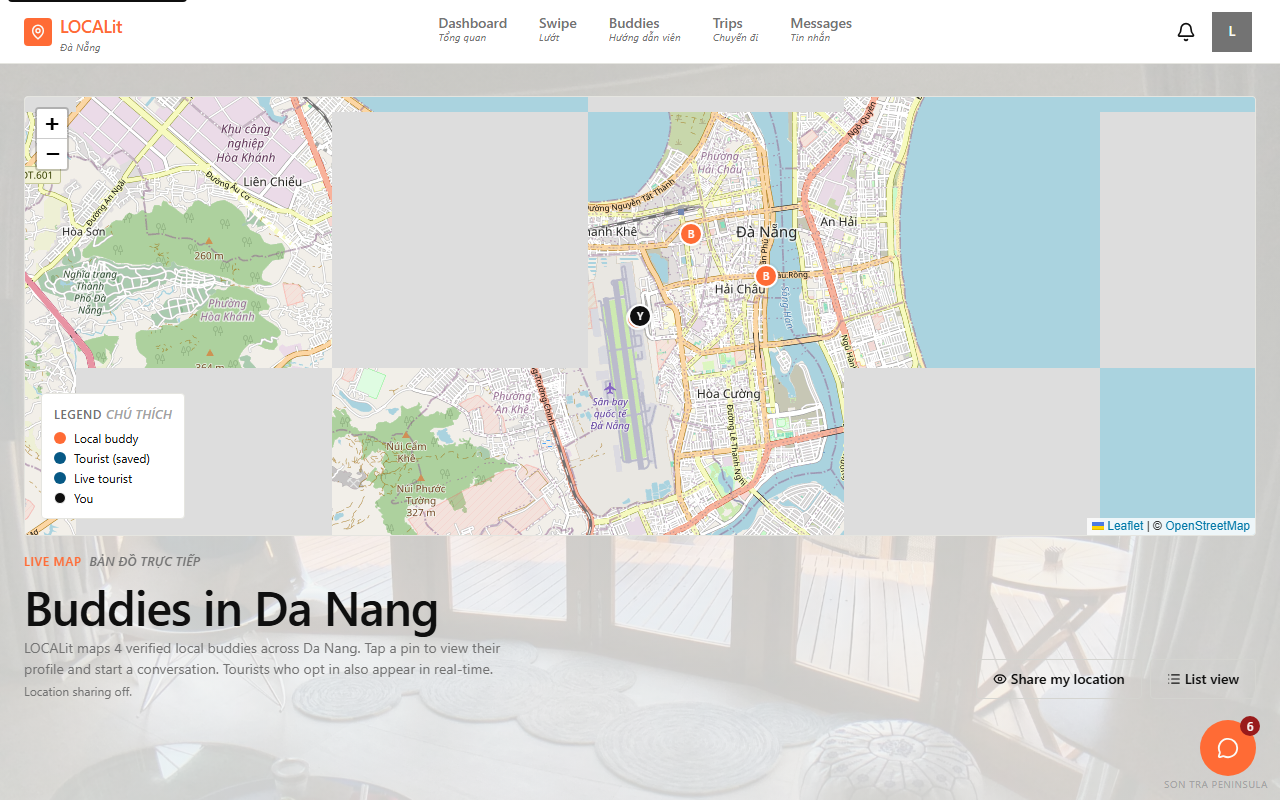
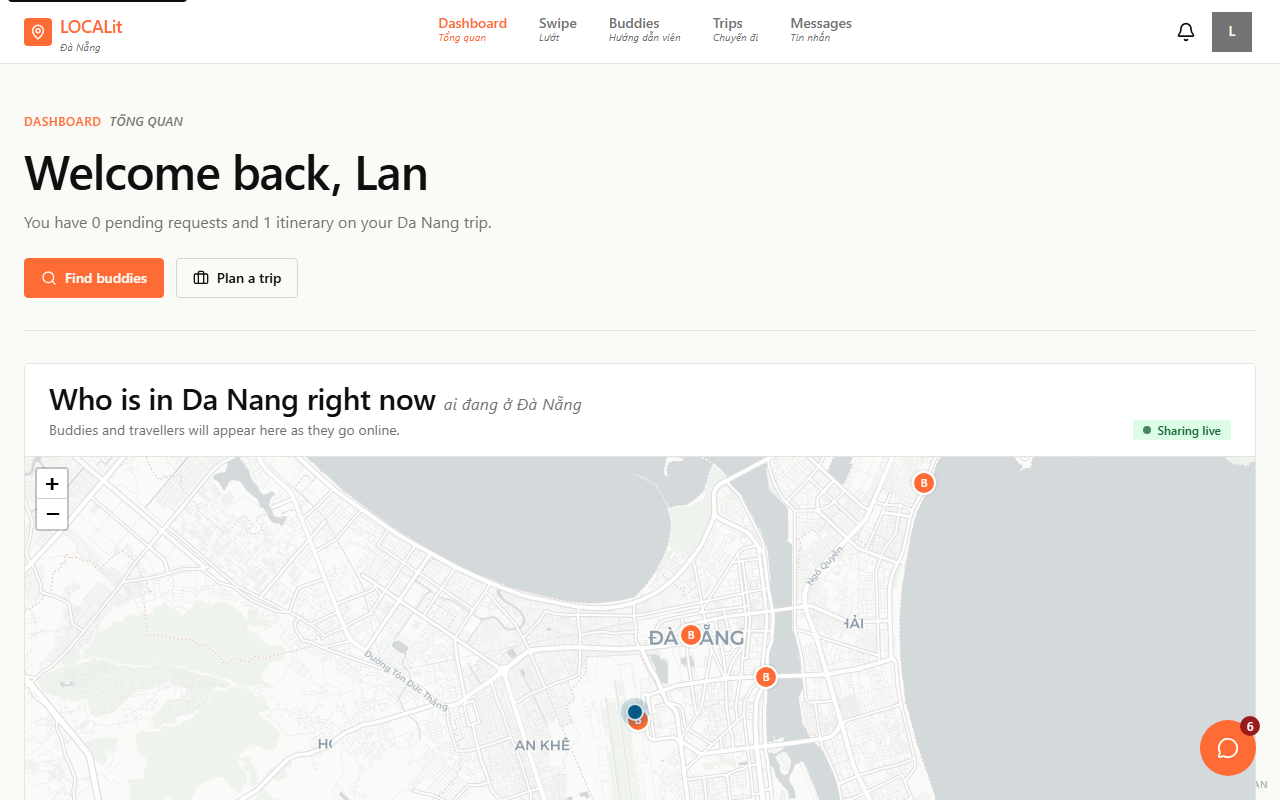
fix: dedupe self pin on map when share-location is on
When a user toggled 'Share my location' on /map, /dashboard, or
/browse, the map rendered TWO markers for the broadcaster's
position: the pulsing live self marker (driven by selfLiveOverride)
PLUS a regular live marker echoed back from the postgres_changes
subscription on location_updates.

Root cause: useLiveUserLocations subscribes to its own publishes
because the channel is created before getCurrentUser() resolves, so
userIdRef.current is still null when the first self-echo event
arrives. The initial-fetch path already filters by userIdRef, but
the realtime path raced it.

Fix:
- Add selfUserId prop to MapView + useLiveUserLocations.
- The page wires the auth session id through to both.
- MapView filters liveLocations at render time: never render a
  live marker for selfUserId.
- useLiveUserLocations also seeds userIdRef from the prop so the
  postgres_changes handler can skip self-echoes reliably.

diff --git a/components/map/MapView.tsx b/components/map/MapView.tsx
@@ -33,6 +33,13 @@ interface Props {
   /** Hide the static "You are here" marker even when granted — useful when
    *  we want to use the broadcaster's own marker instead. */
   selfLiveOverride?: boolean
+  /** Current signed-in user id. When provided, the map will NEVER render
+   *  a live marker for this user — the self marker (or pulsing live self
+   *  marker) already represents their position. Fixes the duplicate-pin
+   *  bug where the publisher's own row was echoed back via the
+   *  `location_updates` postgres_changes subscription before
+   *  `getCurrentUser()` resolved. */
+  selfUserId?: string | null
 }
 
 const DEFAULT_LOCATION = { lat: 16.0544, lng: 108.2023 } // Da Nang
@@ -84,7 +91,7 @@ function livePulseIcon(): L.DivIcon {
   return icon
 }
 
-export default function MapView({ userLocation, height = '100%', showSelfMarker = true, hasGpsFix = false, onSelectBuddy, liveLocations = [], selfLiveOverride = false }: Props) {
+export default function MapView({ userLocation, height = '100%', showSelfMarker = true, hasGpsFix = false, onSelectBuddy, liveLocations = [], selfLiveOverride = false, selfUserId = null }: Props) {
   const [buddies, setBuddies] = useState<BuddyPin[]>([])
   const [tourists, setTourists] = useState<BuddyPin[]>([])
   const [loading, setLoading] = useState(true)
@@ -402,14 +409,23 @@ export default function MapView({ userLocation, height = '100%', showSelfMarker 
           </Marker>
         ))}
 
-        {liveLocations.map((l) => (
-          <Marker key={`live-${l.userId}`} position={[l.lat, l.lng]} icon={livePulseIcon()} zIndexOffset={2000}>
-            <Popup>
-              <strong>{l.name}</strong>
-              <div style={{ fontSize: 12, color: '#737373' }}>Sharing live</div>
-            </Popup>
-          </Marker>
-        ))}
+        {liveLocations.map((l) => {
+          // Skip the broadcaster's own row — already represented by the
+          // self marker (or pulsing live self marker). The duplicate
+          // happens when the publish() call writes a row before
+          // userIdRef is populated, so the postgres_changes handler
+          // can't filter on the ref yet. Filtering at render time
+          // is the reliable backstop.
+          if (selfUserId && l.userId === selfUserId) return null
+          return (
+            <Marker key={`live-${l.userId}`} position={[l.lat, l.lng]} icon={livePulseIcon()} zIndexOffset={2000}>
+              <Popup>
+                <strong>{l.name}</strong>
+                <div style={{ fontSize: 12, color: '#737373' }}>Sharing live</div>
+              </Popup>
+            </Marker>
+          )
+        })}
       </MapContainer>
 
       {loading ? (

diff --git a/hooks/useLiveUserLocations.ts b/hooks/useLiveUserLocations.ts
@@ -24,6 +24,12 @@ interface Options {
   publishIntervalMs?: number
   /** How long a remote marker stays on the map without an update (ms). Default 60000. */
   staleAfterMs?: number
+  /** Authenticated user id of the local user. When provided, the hook
+   *  filters the publisher's own row out of the postgres_changes stream
+   *  (in addition to the render-time filter in <MapView />), so the
+   *  map never shows two pins for the broadcaster. If omitted, the
+   *  hook falls back to its internal getCurrentUser() race. */
+  selfUserId?: string | null
 }
 
 const STALE_AFTER_MS_DEFAULT = 60_000
@@ -48,7 +54,7 @@ const STALE_AFTER_MS_DEFAULT = 60_000
  *    row per user where the sharer has opted in via this hook.
  */
 export function useLiveUserLocations(opts: Options = {}) {
-  const { enabled = false, publishIntervalMs = 5_000, staleAfterMs = STALE_AFTER_MS_DEFAULT } = opts
+  const { enabled = false, publishIntervalMs = 5_000, staleAfterMs = STALE_AFTER_MS_DEFAULT, selfUserId = null } = opts
 
   const [liveLocations, setLiveLocations] = useState<LiveLocation[]>([])
   const [selfGranted, setSelfGranted] = useState(false)
@@ -72,6 +78,13 @@ export function useLiveUserLocations(opts: Options = {}) {
         (user?.user_metadata?.full_name as string | undefined) ??
         (user?.email ? String(user.email).split('@')[0] : 'You')
     })
+
+    // Also seed from the prop if the caller already knows the user id.
+    // This is the reliable path — it covers the race where the
+    // postgres_changes event fires before getCurrentUser() resolves
+    // and the broadcaster's own row would otherwise be rendered
+    // as a second pin. See MapView selfUserId prop.
+    if (selfUserId) userIdRef.current = selfUserId
 
     // Initial fetch of recent live locations so we don't wait 5s for the
     // first realtime event.
@@ -162,7 +175,7 @@ export function useLiveUserLocations(opts: Options = {}) {
         }
       }
     }
-  }, [staleAfterMs])
+  }, [staleAfterMs, selfUserId])
 
   // Toggle publish/subscribe on the local user based on `enabled`
   useEffect(() => {

diff --git a/app/browse/page.tsx b/app/browse/page.tsx
@@ -84,6 +84,10 @@ function BrowseContent() {
   const [loadError, setLoadError] = useState<string | null>(null)
   // Distance slider — 50 means "Any distance" (no upper bound applied).
   const [maxDistanceKm, setMaxDistanceKm] = useState<number>(50)
+  // Current user id — used by MapView/useLiveUserLocations to filter out
+  // the publisher's own row from the location_updates postgres_changes
+  // stream (otherwise the map shows two pins for the same position).
+  const [currentUserId, setCurrentUserId] = useState<string | null>(null)
 
   // Hydrate saved buddies from localStorage on mount
   useEffect(() => {
@@ -107,7 +111,19 @@ function BrowseContent() {
 
   const { liveLocations, selfGranted, selfDenied } = useLiveUserLocations({
     enabled: shareLocation,
+    selfUserId: currentUserId,
   })
+
+  useEffect(() => {
+    const supabase = createClient()
+    supabase.auth.getUser().then(({ data }) => {
+      setCurrentUserId(data.user?.id ?? null)
+    })
+    const { data: sub } = supabase.auth.onAuthStateChange((_event, session) => {
+      setCurrentUserId(session?.user?.id ?? null)
+    })
+    return () => sub.subscription.unsubscribe()
+  }, [])
 
   useEffect(() => {
     if (typeof navigator === 'undefined' || !navigator.geolocation) return
@@ -518,6 +534,7 @@ function BrowseContent() {
             onSelectBuddy={(id) => { setSelectedMapId(id); setExpandedBuddyId(id) }}
             liveLocations={liveLocations}
             selfLiveOverride={selfGranted || shareLocation}
+            selfUserId={currentUserId}
           />
           {selectedBuddy ? (
             <div className="absolute bottom-3 left-3 right-3 md:left-auto md:right-3 md:w-80 bg-surface border border-border rounded-sm p-4 z-aside">

diff --git a/app/map/page.tsx b/app/map/page.tsx
@@ -41,6 +41,7 @@ export default function MapPage() {
   // out on geolocation were incorrectly flagged as "not signed in" even when
   // their auth cookie was valid.
   const [signedIn, setSignedIn] = useState(false)
+  const [currentUserId, setCurrentUserId] = useState<string | null>(null)
 
   // RAM OPTIMIZATION (2026-10-08): useLocationWatcher re-runs its
   // useEffect when onGranted / onDenied change. If those props are
@@ -63,6 +64,7 @@ export default function MapPage() {
 
   const { liveLocations, selfGranted, selfDenied } = useLiveUserLocations({
     enabled: shareLocation && signedIn,
+    selfUserId: currentUserId,
   })
 
   // Check auth session once on mount + listen for changes.
@@ -70,9 +72,11 @@ export default function MapPage() {
     const supabase = createClient()
     supabase.auth.getUser().then(({ data }) => {
       setSignedIn(!!data.user)
+      setCurrentUserId(data.user?.id ?? null)
     })
     const { data: sub } = supabase.auth.onAuthStateChange((_event, session) => {
       setSignedIn(!!session?.user)
+      setCurrentUserId(session?.user?.id ?? null)
     })
     return () => sub.subscription.unsubscribe()
   }, [])
@@ -146,6 +150,7 @@ export default function MapPage() {
           onSelectBuddy={(id) => setSelectedId(id)}
           liveLocations={liveLocations}
           selfLiveOverride={selfGranted}
+          selfUserId={currentUserId}
         />
 
         {/* Legend — sits on top of every Leaflet pane (markers z=600,

diff --git a/app/dashboard/page.tsx b/app/dashboard/page.tsx
@@ -29,6 +29,7 @@ export default function DashboardPage() {
 
   const { liveLocations, selfGranted, selfDenied } = useLiveUserLocations({
     enabled: true,
+    selfUserId: profile?.id ?? null,
   });
 
   useEffect(() => {
@@ -250,6 +251,7 @@ export default function DashboardPage() {
             hasGpsFix={hasGpsFix || selfGranted}
             selfLiveOverride={selfGranted}
             liveLocations={liveLocations}
+            selfUserId={profile?.id ?? null}
           />
         </div>
       </section>
